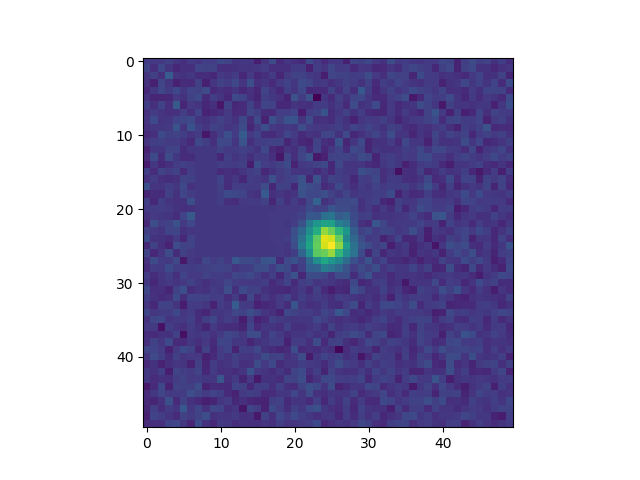
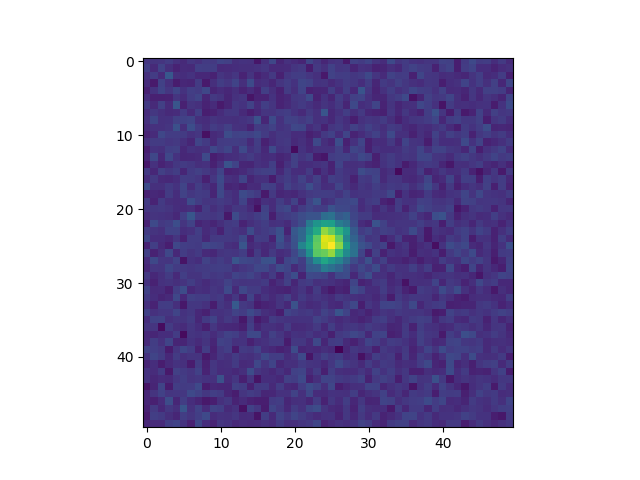
updating repo

diff --git a/new_galsim_deblend.py b/new_galsim_deblend.py
@@ -143,7 +143,7 @@ class Model(Simulation):
         neigh_shape = neigh_mod.shape
         coord2 = coords[1]
         bg_rms = self['Image']['Bgrms']
-        cen_obj[int(coord2[1]-(neigh_shape[1]/2)-1):int(coord2[1]+(neigh_shape[1]/2)-1),int(coord2[0]-(neigh_shape[2]/2)-1):int(coord2[0]+(neigh_shape[2]/2)-1)] += np.random.normal(scale=bg_rms,size=neigh_shape)[0]#rng.normal(scale=bg_rms)
+        cen_obj[int(coord2[0]-(neigh_shape[1]/2)+1):int(coord2[0]+(neigh_shape[1]/2)+1),int(coord2[1]-(neigh_shape[2]/2)+1):int(coord2[1]+(neigh_shape[2]/2)+1)] += np.random.normal(scale=bg_rms,size=neigh_shape)[0]#rng.normal(scale=bg_rms)
         print(np.random.normal(scale=bg_rms,size=neigh_shape)[0])
         return cen_obj
 
@@ -192,7 +192,7 @@ def norm_test():
     cen_obj = im[0,:,:] - C[1][0,:,:]#mod2[0,:,:]
     cen_obj = Mod._readd_noise(coords,neigh_mod,cen_obj)
     plt.imshow(cen_obj)
-    plt.savefig("test_2.png")
+    plt.savefig("test_5.png")
     dobs = observation(cen_obj,Mod['Image']['Bgrms'],coords[0][1],
                        coords[0][0],Mod['Psf']['Bgrms_psf'],psf_im)
     return dobs
